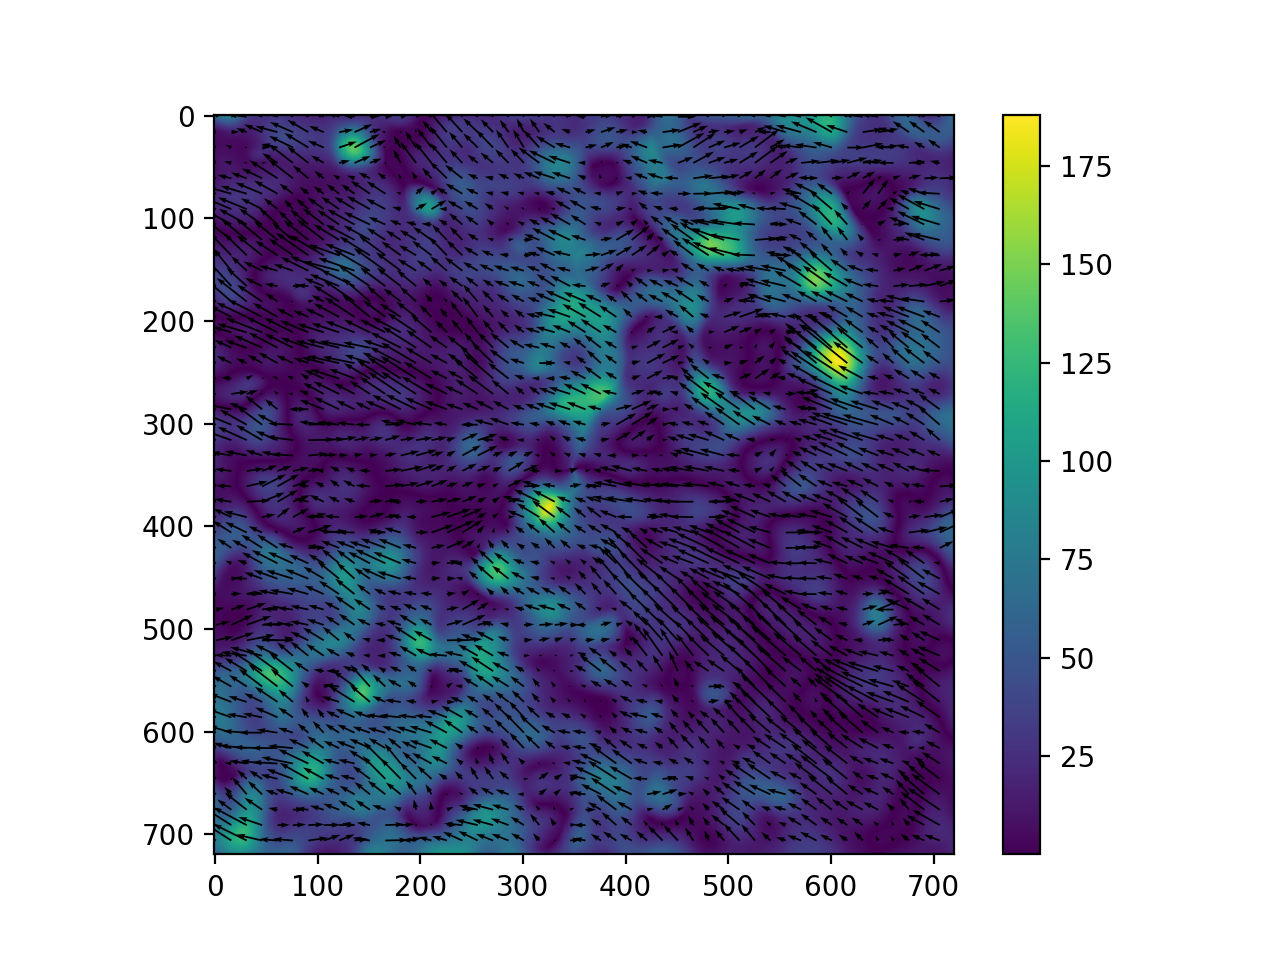
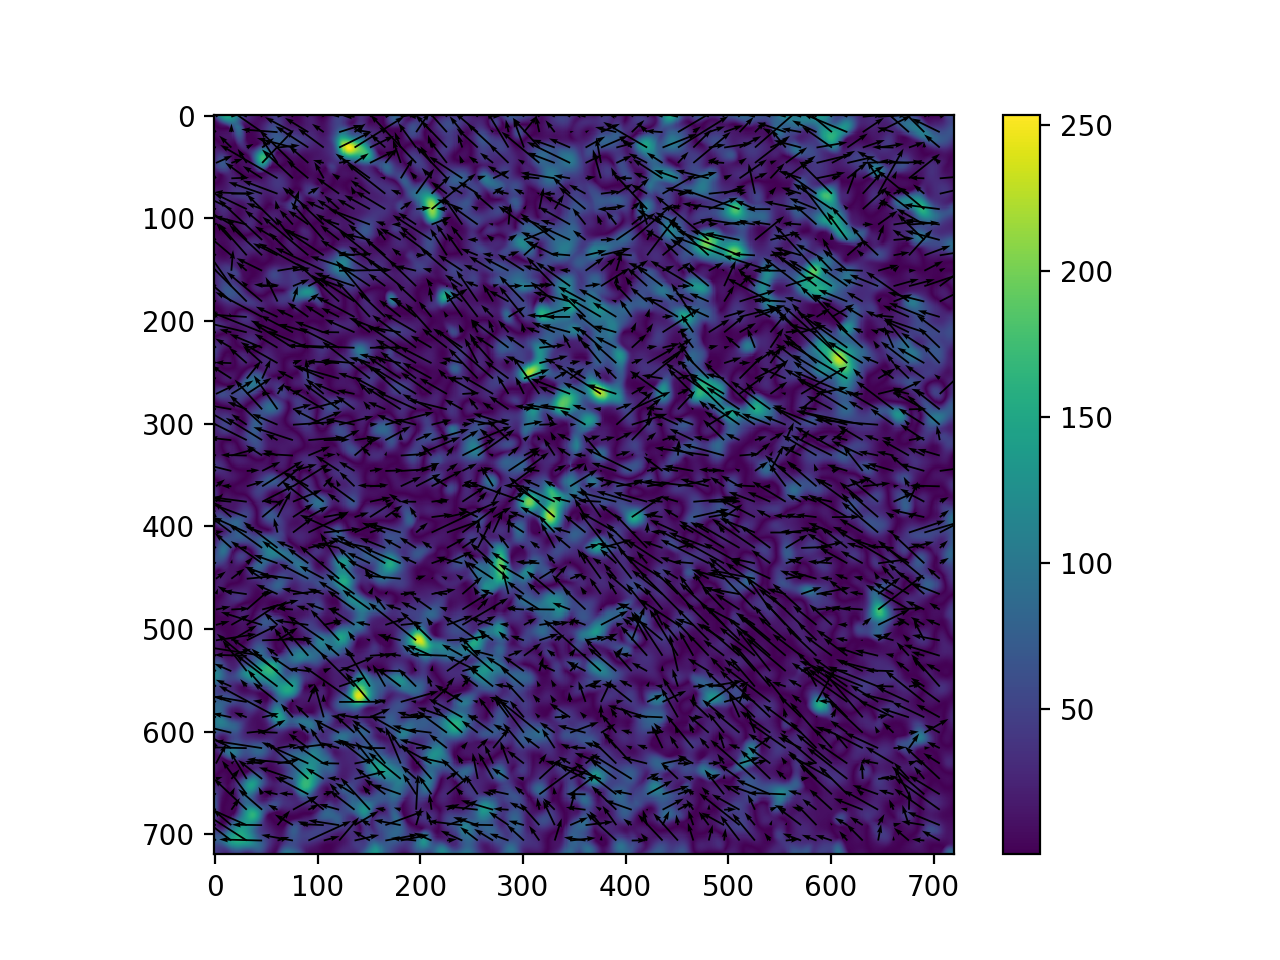
update compaction analysis

diff --git a/cell_compaction_analysis.py b/cell_compaction_analysis.py
@@ -33,7 +33,7 @@ from copy import copy
 import imageio
 from skimage import color
 from scipy.ndimage.morphology import distance_transform_edt
-#import skfmm    #      pip install scikit-fmm
+from natsort import natsorted
 
 def set_vmin_vmax(x, vmin, vmax):
     if not isinstance(vmin, (float, int)):
@@ -184,13 +184,16 @@ def segment_cell(img, thres=1, gaus1 = 11, gaus2=20):
 # read in list of cells and list of fibers to evaluate (must be in same order)
 # use glob.glob or individual list of paths []    
 
-fiber_list = glob.glob(r"test_data\fiber.tif")   #fiber_random_c24
-cell_list = glob.glob(r"test_data\cell.tif")   #check that order is same to fiber
+fiber_list = natsorted(glob.glob(r"test_data\fiber.tif"))   #fiber_random_c24
+cell_list = natsorted(glob.glob(r"test_data\cell.tif"))   #check that order is same to fiber
+
+scale =  1 # um per pixel
 
 
 # Set Parameters 
-sigma_tensor = 14  # sigma of applied gauss filter / window for structure tensor analysis in px
-                    # should be in the order of the objects to analyze !! test
+sigma_tensor = 7/scale  # sigma of applied gauss filter / window for structure tensor analysis in px
+                    # should be in the order of the objects to analyze !! 
+                    # 7 um for collagen 
 edge = 40   # Cutt of pixels at the edge since values at the border cannot be trusted
 segmention_thres = 1  # for cell segemetntion, thres 1 equals normal otsu threshold , user also can specify gaus1 + gaus2 in segmentation if needed
 sigma_first_blur  = 0.5  # slight first bluring of whole image before using structure tensor
@@ -398,7 +401,10 @@ for n,i in tqdm(enumerate(fiber_list)):
     np.savetxt(os.path.join(out_list[n],"dist_angle.txt"), dist_angle)
     np.savetxt(os.path.join(out_list[n],"distdrop25_ori_px.txt"), [halflife_ori])
     np.savetxt(os.path.join(out_list[n],"distdrop25_int_px.txt"), [halflife_int])   
-    
+    try:
+        np.savetxt(os.path.join(out_list[n],"meanangle_within10shells.txt"), [dist_angle[9]]) 
+    except:
+        pass
 
     
     """
@@ -564,6 +570,11 @@ for n,i in tqdm(enumerate(fiber_list)):
     plt.scatter(center_small[0],center_small[1], c= "w")
     plt.tight_layout()
     plt.savefig(os.path.join(out_list[n],"struc-tens-o2.png"), dpi=200)
+    
+    plt.figure()
+    plt.imshow(im_cell_n)
+    plt.savefig(os.path.join(out_list[n],"cell-raw.png"), dpi=200)
+    
     
     # fig7= plt.figure() 
     # my_norm = matplotlib.colors.Normalize(vmin=0.99, vmax=1, clip=False)  
